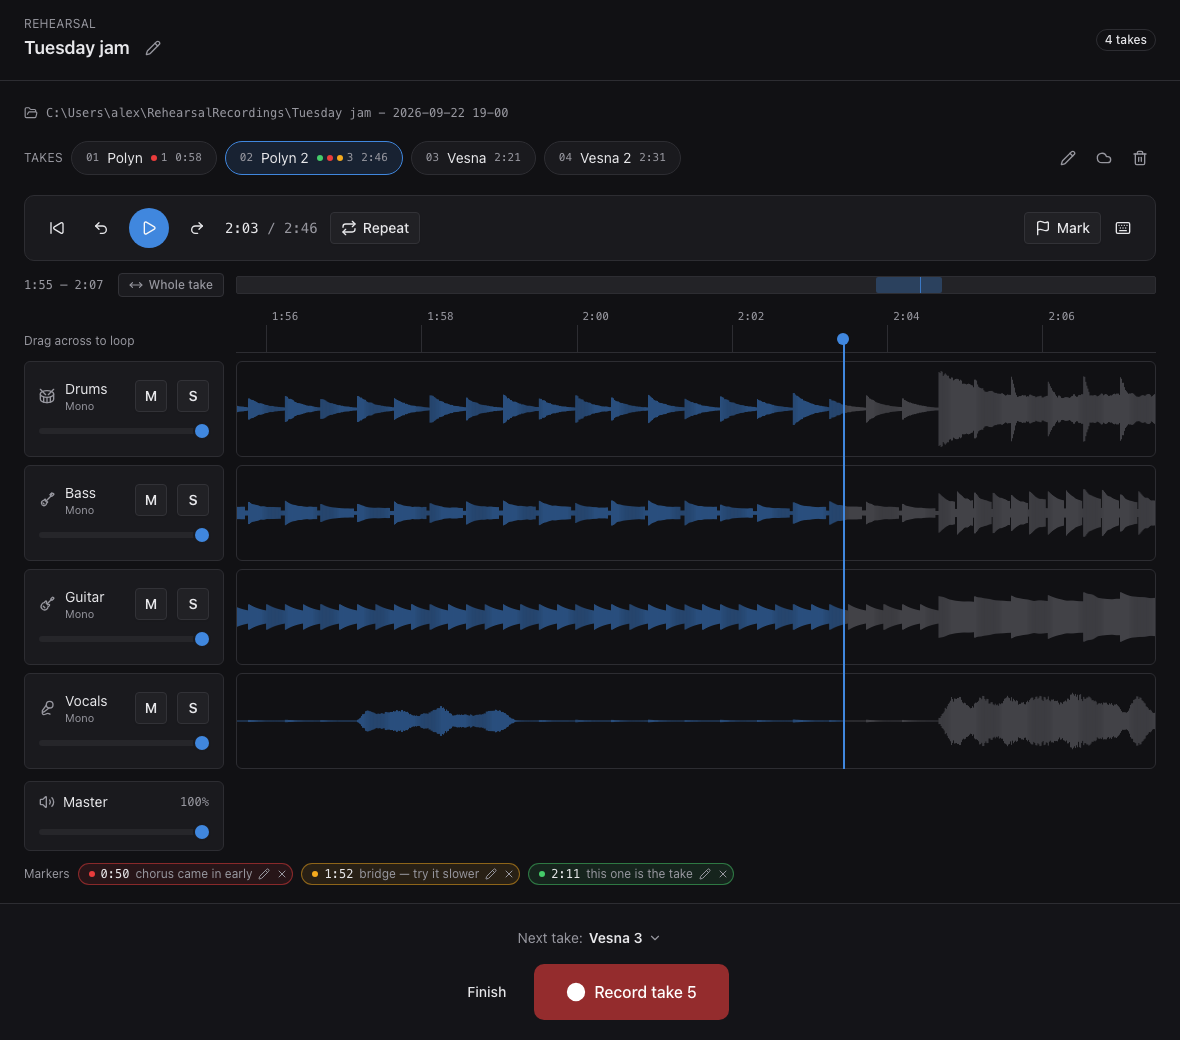
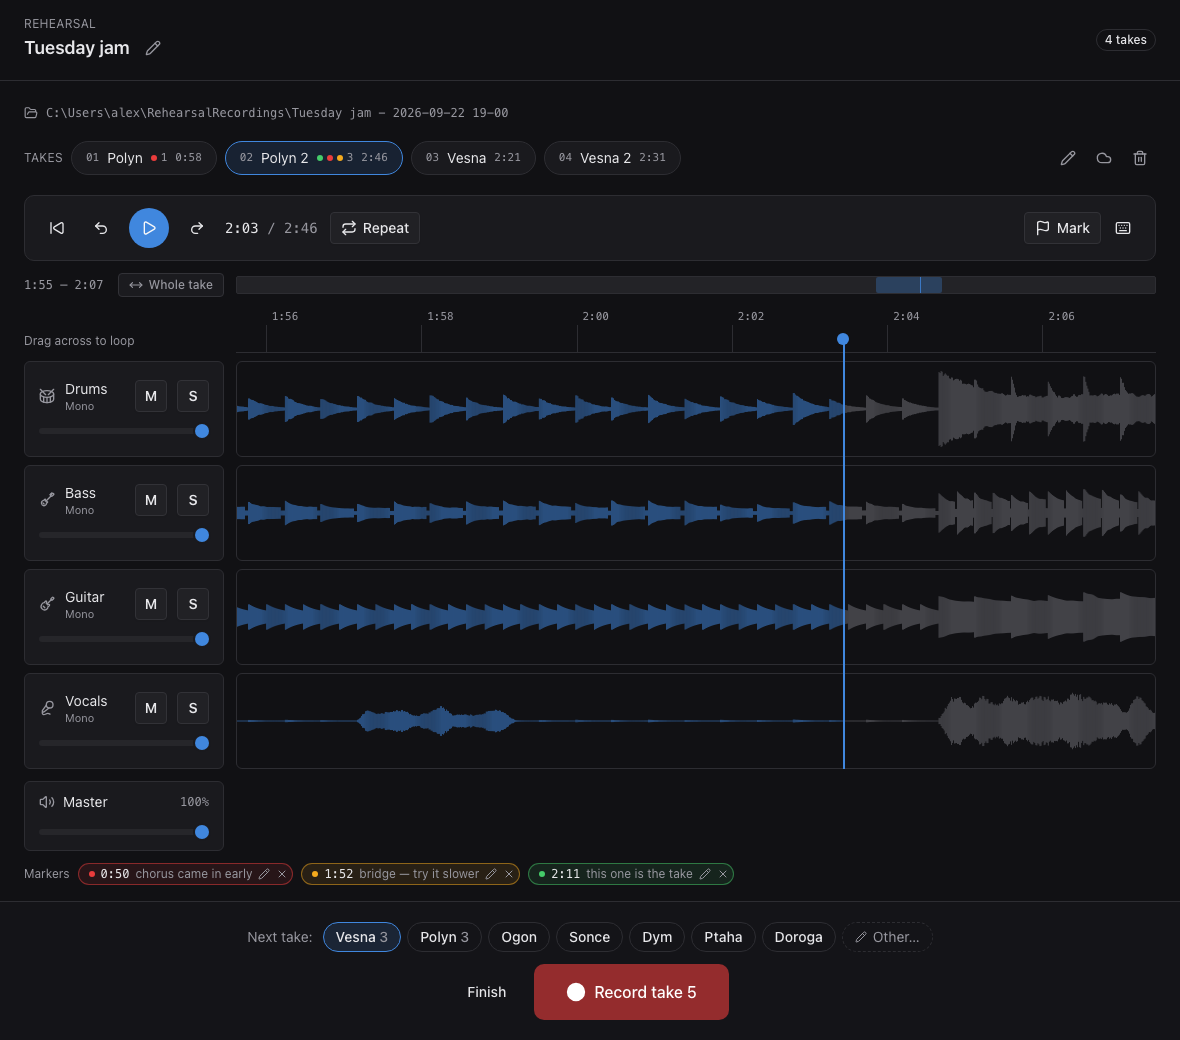
Lay the next take's songs out over Record instead of behind a menu
"Next take: Take 1 ▾" read as a caption, and the songs behind it went
unfound. The row now shows the name the take has, lit, and beside it the
songs it could be instead, this rehearsal's as the next go at each and then
the latest played; one click names it. Other… keeps the full list and the
field for a new name. The songs follow the takes as they are added and
renamed.

diff --git a/ui/src/components/NextTakeName.tsx b/ui/src/components/NextTakeName.tsx
@@ -1,31 +1,45 @@
 import { useState } from "react"
-import { ChevronDown } from "lucide-react"
+import { Pencil } from "lucide-react"
 import { Input } from "@/components/ui/input"
 import { Popover, PopoverContent, PopoverTrigger } from "@/components/ui/popover"
-import { SongChips } from "@/components/SongChips"
+import { SongChip, SongChips } from "@/components/SongChips"
 import { useSongChoices } from "@/hooks/useSongChoices"
+import type { SongChoice } from "@/lib/api"
+
+/** How many songs the row shows besides the next take's own name: the
+ *  likeliest, and Other… has the rest. */
+const SHOWN = 6
 
 /**
- * What the next take will be called, over the Record button, and a way to
- * say before playing that the band has moved on to another song. Without
- * it the new song's first take came out as another go at the old one —
- * "Polyn 4" for what was Vesna — and was retyped after, on the review
- * screen; the recording screen meanwhile compared it with Polyn's length.
+ * What the next take will be called, over the Record button, with the songs
+ * it could be instead laid out beside it: when the band moves on to another
+ * song, one click says so before they play. Without it the new song's first
+ * take came out as another go at the old one — "Polyn 4" for what was
+ * Vesna — and was retyped after, on the review screen, while the recording
+ * screen compared it with Polyn's length.
  *
- * A song picked here is taken at once, since picking is all there is to
- * do; a name typed is taken with Enter. Python keeps it until a take is
- * kept, so a take thrown away leaves it for the go after.
+ * The songs are out in the open rather than behind a menu: a menu under
+ * "Next take: Take 1" read as a caption, and nobody found it. First the
+ * name the take has now, lit; then what this rehearsal played, as the next
+ * go at each; then the rest of the repertoire, the latest played first.
+ * Other… has every song and a field for a name nobody has played.
+ *
+ * Python keeps the choice until a take is kept, so a take thrown away
+ * leaves it for the go after.
  */
 export function NextTakeName({
   name,
+  version,
   onChoose,
 }: {
   name: string
+  /** Changes with the rehearsal's takes, so the songs follow them. */
+  version: string
   onChoose: (name: string) => void
 }) {
   const [open, setOpen] = useState(false)
   const [value, setValue] = useState(name)
-  const choices = useSongChoices(open)
+  const choices = useSongChoices(true, null, null, version)
 
   const choose = (chosen: string) => {
     const trimmed = chosen.trim()
@@ -33,41 +47,60 @@ export function NextTakeName({
     setOpen(false)
   }
 
+  const all = choices ? [...choices.here, ...choices.other] : []
+  const said = name.trim().toLocaleLowerCase()
+  const itsOwn = all.find((c) => c.name.toLocaleLowerCase() === said)
+  // The name the take has now, whether or not it is one of the songs: the
+  // app's own "Take 1" before anything is named, or a name typed in Other….
+  const current: SongChoice = itsOwn ?? { song: name, name }
+  const others = all.filter((c) => c !== itsOwn).slice(0, SHOWN)
+  const chip = "px-3 py-1 text-sm"
+
   return (
-    <Popover
-      open={open}
-      onOpenChange={(next) => {
-        if (next) setValue(name)
-        setOpen(next)
-      }}
+    <div
+      role="group"
+      aria-label="Next take"
+      className="flex max-w-3xl flex-wrap items-center justify-center gap-1.5"
     >
-      <PopoverTrigger asChild>
-        <button
-          type="button"
-          aria-label={`Next take: ${name}. Change`}
-          className="flex max-w-full items-center gap-1.5 rounded-md px-2 py-1 text-sm text-muted-foreground transition-colors hover:bg-accent/50 hover:text-foreground focus-visible:ring-[3px] focus-visible:ring-ring/50 focus-visible:outline-none"
-        >
-          Next take:
-          <span className="truncate font-semibold text-foreground">{name}</span>
-          <ChevronDown className="size-3.5 shrink-0" />
-        </button>
-      </PopoverTrigger>
-      <PopoverContent side="top" align="center" className="flex w-96 flex-col gap-3 p-3">
-        <Input
-          aria-label="Name of the next take"
-          value={value}
-          onChange={(e) => setValue(e.target.value)}
-          onFocus={(e) => e.currentTarget.select()}
-          onKeyDown={(e) => {
-            if (e.key === "Enter") {
-              e.preventDefault()
-              choose(value)
-            }
-          }}
-          placeholder="A song title"
-        />
-        <SongChips choices={choices} value={value} initial={name} onPick={choose} />
-      </PopoverContent>
-    </Popover>
+      <span className="mr-1 text-sm text-muted-foreground">Next take:</span>
+      <SongChip choice={current} current onPick={choose} className={chip} />
+      {others.map((c) => (
+        <SongChip key={c.song} choice={c} current={false} onPick={choose} className={chip} />
+      ))}
+      <Popover
+        open={open}
+        onOpenChange={(next) => {
+          if (next) setValue(name)
+          setOpen(next)
+        }}
+      >
+        <PopoverTrigger asChild>
+          <button
+            type="button"
+            aria-label="Another name for the next take"
+            className="flex items-center gap-1.5 rounded-full border border-dashed px-3 py-1 text-sm text-muted-foreground transition-colors hover:bg-accent hover:text-foreground focus-visible:ring-[3px] focus-visible:ring-ring/50 focus-visible:outline-none"
+          >
+            <Pencil className="size-3" />
+            Other…
+          </button>
+        </PopoverTrigger>
+        <PopoverContent side="top" align="center" className="flex w-96 flex-col gap-3 p-3">
+          <Input
+            aria-label="Name of the next take"
+            value={value}
+            onChange={(e) => setValue(e.target.value)}
+            onFocus={(e) => e.currentTarget.select()}
+            onKeyDown={(e) => {
+              if (e.key === "Enter") {
+                e.preventDefault()
+                choose(value)
+              }
+            }}
+            placeholder="A song title"
+          />
+          <SongChips choices={choices} value={value} initial={name} onPick={choose} />
+        </PopoverContent>
+      </Popover>
+    </div>
   )
 }

diff --git a/ui/e2e/naming.spec.ts b/ui/e2e/naming.spec.ts
@@ -102,46 +102,51 @@ test("renaming a take in history offers what that rehearsal played, as the next 
 })
 
 test.describe("the next take", () => {
-  test("is named before it is played, and keeps its name through a take thrown away", async ({
+  /** The row over Record: the name the next take has, lit, and the songs. */
+  const row = (page: Page) => page.getByRole("group", { name: "Next take" })
+  const lit = (page: Page) => row(page).locator("[aria-current='true']")
+
+  test("is named from the songs over Record, and keeps its name through a take thrown away", async ({
     page,
   }) => {
     await openApp(page)
     await startRehearsal(page)
-    const next = page.getByRole("button", { name: /^Next take:/ })
-    await expect(next).toContainText("Take 1")
+    // Out in the open, not behind a menu: the name it has and the songs.
+    await expect(lit(page)).toHaveText("Take 1")
+    await expect(row(page).getByRole("button", { name: "Vesna", exact: true })).toBeVisible()
 
-    await next.click()
-    await page.getByRole("dialog").getByRole("button", { name: "Vesna", exact: true }).click()
-    await expect(page.getByRole("dialog")).toHaveCount(0)
-    await expect(next).toContainText("Vesna")
+    await row(page).getByRole("button", { name: "Vesna", exact: true }).click()
+    await expect(lit(page)).toHaveText("Vesna")
     expect((await calls(page, "set_next_take_name")).at(-1)?.args).toEqual(["Vesna"])
-
+    // The click left the keyboard to the screen: Space records.
+    await page.keyboard.press("Space")
     // The recording screen already says the song, and review has the name.
-    await page.getByRole("button", { name: /Record take 1/ }).click()
     await expect(page.getByText("Take 1 · Vesna")).toBeVisible()
     await page.getByRole("button", { name: /^Stop/ }).click()
     await expect(nameField(page)).toHaveValue("Vesna")
 
     // Thrown away, it is played again under the same name.
     await page.getByRole("button", { name: /^Discard/ }).click()
-    await expect(next).toContainText("Vesna")
+    await expect(lit(page)).toHaveText("Vesna")
     await recordTake(page, 2)
     await expect(nameField(page)).toHaveValue("Vesna")
     await page.getByRole("button", { name: /Save take/ }).click()
-    // Kept, it is used up, and the next one follows on from it.
-    await expect(next).toContainText("Vesna 2")
+    // Kept, it is used up, and the next one follows on from it — and the
+    // song is not offered a second time beside it.
+    await expect(lit(page)).toHaveText("Vesna 2")
+    await expect(row(page).locator("[data-song-choice^='Vesna']")).toHaveCount(1)
   })
 
-  test("takes a typed name with Enter, and leaves Space and Escape to the picker", async ({
-    page,
-  }) => {
+  test("takes a typed name under Other…, and leaves Space and Escape to it", async ({ page }) => {
     await openApp(page)
     await startRehearsal(page)
-    const next = page.getByRole("button", { name: /^Next take:/ })
-    await next.click()
+    const other = row(page).getByRole("button", { name: "Another name for the next take" })
+    await other.click()
     const field = page.getByRole("textbox", { name: "Name of the next take" })
     await expect(field).toBeFocused()
-    // Neither records nor finishes the rehearsal from inside the picker.
+    // Every song is in there, the ones the row had no room for too.
+    await expect(page.getByRole("dialog").locator("[data-song-choice]")).toHaveCount(7)
+    // Neither records nor finishes the rehearsal from inside it.
     await page.keyboard.press("Space")
     await page.keyboard.press("Escape")
     await expect(page.getByRole("dialog")).toHaveCount(0)
@@ -150,10 +155,10 @@ test.describe("the next take", () => {
     await expect(startButton(page)).toHaveCount(0)
     expect(await callCount(page, "set_next_take_name")).toBe(0)
 
-    await next.click()
+    await other.click()
     await field.fill("New song")
     await page.keyboard.press("Enter")
-    await expect(next).toContainText("New song")
+    await expect(lit(page)).toHaveText("New song")
     expect((await calls(page, "set_next_take_name")).at(-1)?.args).toEqual(["New song"])
   })
 })

diff --git a/ui/src/components/SongChips.tsx b/ui/src/components/SongChips.tsx
@@ -51,24 +51,7 @@ export function SongChips({
       </span>
       <div className="flex flex-wrap gap-1.5">
         {items.map((c) => (
-          <button
-            key={c.song}
-            type="button"
-            data-song-choice={c.name}
-            aria-current={isChoice(c) ? "true" : undefined}
-            onMouseDown={(e) => e.preventDefault()}
-            onClick={() => onPick(c.name)}
-            className={cn(
-              "rounded-full border px-2.5 py-1 text-xs font-medium transition-colors",
-              "hover:bg-accent focus-visible:ring-[3px] focus-visible:ring-ring/50 focus-visible:outline-none",
-              isChoice(c) && "border-primary bg-primary/15 hover:bg-primary/20"
-            )}
-          >
-            {c.song}
-            {c.name !== c.song && (
-              <span className="text-muted-foreground">{c.name.slice(c.song.length)}</span>
-            )}
-          </button>
+          <SongChip key={c.song} choice={c} current={isChoice(c)} onPick={onPick} />
         ))}
       </div>
     </div>
@@ -79,5 +62,43 @@ export function SongChips({
       {here.length > 0 && row("This rehearsal", here)}
       {other.length > 0 && row(here.length > 0 ? "Other songs" : "Songs", other)}
     </div>
+  )
+}
+
+/**
+ * One song to name a take after, as the name it gives: "Polyn 3", with the
+ * number dimmed. Pressing it does not take focus, so the keys stay where
+ * they were — in the field being named, or with the screen.
+ */
+export function SongChip({
+  choice: c,
+  current,
+  onPick,
+  className,
+}: {
+  choice: SongChoice
+  current: boolean
+  onPick: (name: string) => void
+  className?: string
+}) {
+  return (
+    <button
+      type="button"
+      data-song-choice={c.name}
+      aria-current={current ? "true" : undefined}
+      onMouseDown={(e) => e.preventDefault()}
+      onClick={() => onPick(c.name)}
+      className={cn(
+        "max-w-full truncate rounded-full border px-2.5 py-1 text-xs font-medium transition-colors",
+        "hover:bg-accent focus-visible:ring-[3px] focus-visible:ring-ring/50 focus-visible:outline-none",
+        current && "border-primary bg-primary/15 hover:bg-primary/20",
+        className
+      )}
+    >
+      {c.song}
+      {c.name !== c.song && (
+        <span className="text-muted-foreground">{c.name.slice(c.song.length)}</span>
+      )}
+    </button>
   )
 }

diff --git a/ui/src/hooks/useSongChoices.ts b/ui/src/hooks/useSongChoices.ts
@@ -5,11 +5,14 @@ import { api, type SongChoices } from "@/lib/api"
  * The songs a take can be named after, fetched while `enabled`: what its
  * rehearsal played and every other song in the library. `folder` left out
  * is the rehearsal in progress; `takeNumber` is the take being named.
+ * `version` is anything that changes when the rehearsal's takes do, for a
+ * list that stays on screen while they are renamed and added to.
  */
 export function useSongChoices(
   enabled: boolean,
   folder?: string | null,
-  takeNumber?: number | null
+  takeNumber?: number | null,
+  version?: string
 ): SongChoices | null {
   const [choices, setChoices] = useState<SongChoices | null>(null)
   useEffect(() => {
@@ -23,6 +26,6 @@ export function useSongChoices(
     return () => {
       current = false
     }
-  }, [enabled, folder, takeNumber])
+  }, [enabled, folder, takeNumber, version])
   return enabled ? choices : null
 }

diff --git a/ui/src/screens/Rehearsal.tsx b/ui/src/screens/Rehearsal.tsx
@@ -252,6 +252,7 @@ export function Rehearsal({
           {error && <p className="text-sm text-destructive">{error}</p>}
           <NextTakeName
             name={session.next_take_name}
+            version={session.takes.map((t) => `${t.take_number}:${t.name}`).join("|")}
             onChoose={(name) => void nameNextTake(name)}
           />
           <div className="flex items-center gap-3">

diff --git a/docs/using-it.md b/docs/using-it.md
@@ -104,11 +104,12 @@ stopped short stands out before you read anything.
 Press **Record take**, or Space, to start recording. **Finish** ends the
 rehearsal.
 
-Above the button is the name the next take will get: **Next take: Polyn 3**.
-When you move on to another song, click it and pick the song, or type a new
-name and press Enter. The take is then recorded under that name, and the
-recording screen can say how long the last go at that song took. If you
-discard the take, the next one keeps the name you picked.
+Above the button is **Next take**: the name the next take will get, lit,
+and beside it the songs you could play instead. When you move on to another
+song, click it before you press Record. **Other…** lists every song and lets
+you type a new name; press Enter to use it. The take is then recorded under
+that name, and the recording screen can say how long the last go at that
+song took. If you discard the take, the next one keeps the name you picked.
 
 ### While recording
 

diff --git a/CHANGELOG.md b/CHANGELOG.md
@@ -13,8 +13,9 @@ opening.
   played first. Each gives the take its next number, so with "Polyn" and
   "Polyn 2" recorded it names it "Polyn 3". Typing narrows the list.
 - **Name the next take before playing it.** Above **Record take** is the
-  name the next take will get. Click it to pick another song when the band
-  moves on, and the take is recorded under that name, with the recording
+  name the next take will get, with the songs it could be instead beside
+  it. When the band moves on, click the song, or **Other…** for the rest and
+  a new name. The take is recorded under that name, with the recording
   screen timing it against that song's last go. A discarded take leaves the
   name for the next go.
 - **Last time, on the setup screen.** Beside the tracks is the rehearsal
